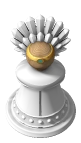
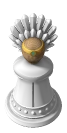
Mexica: slimmer matte Pilli Mexica, wider bridges they stand on between the rails
The Pilli Mexica was wider than the bridges and glossier than everything round it. The figure
keeps its height, so it still shows behind a temple, but is slimmed to 1.05 across; its paint
is matte, toned a quarter of the way towards the island's earth, and its gold dulled. Bridges
widen to 0.31 of a cell each side, so a figure fits between the curbs. On a bridge a figure
stands centred, and on one running across the screen the near curb, rail and posts are drawn
over it.

diff --git a/games/mexica-ui/src/lib/board/lookOutlines.ts b/games/mexica-ui/src/lib/board/lookOutlines.ts
@@ -1,6 +1,6 @@
 // Written by scripts/render-looks.mjs: each figure's outline, by the name of its look.
 export const LOOK_OUTLINES: Record<string, string> = {
-    pilli: 'M-0.09 -32.46L-0.54 -32.24L-1.59 -31.29L-1.48 -30.96L-1.48 -30.07L-1.37 -29.96L-1.37 -29.18L-1.26 -29.07L-1.31 -28.68L-1.59 -28.74L-1.7 -29.07L-1.81 -30.29L-2.09 -31.24L-3.54 -31.9L-3.98 -31.79L-4.48 -31.29L-4.92 -30.4L-4.92 -29.96L-3.87 -27.46L-4.04 -27.52L-5.15 -29.74L-5.42 -30.02L-6.2 -30.24L-7.09 -30.24L-7.48 -29.85L-7.7 -28.18L-6.09 -26.02L-7.15 -27.18L-7.98 -27.9L-8.09 -27.79L-8.98 -27.79L-9.31 -27.68L-9.59 -27.4L-9.59 -26.74L-9.04 -25.52L-9.04 -25.29L-7.81 -24.29L-8.09 -24.35L-8.76 -24.79L-9.09 -24.79L-10.04 -24.29L-10.15 -24.07L-10.04 -23.74L-8.2 -22.02L-7.26 -21.63L-7.54 -21.57L-7.87 -21.68L-8.09 -21.46L-8.54 -21.35L-8.81 -21.07L-8.7 -20.85L-7.65 -20.24L-6.76 -20.02L-6.09 -19.46L-5.76 -19.35L-5.76 -19.24L-5.98 -19.24L-6.37 -18.96L-5.98 -18.68L-4.87 -18.57L-4.7 -18.18L-4.7 -17.74L-5.65 -17.35L-6.31 -16.9L-7.48 -15.74L-8.04 -14.85L-8.26 -14.18L-8.26 -13.74L-8.37 -13.63L-8.26 -12.63L-8.15 -12.52L-8.15 -11.63L-7.7 -10.63L-7.04 -9.85L-6.48 -9.4L-6.48 -9.18L-6.81 -8.18L-8.42 -7.13L-9.7 -5.85L-10.92 -3.96L-11.48 -2.74L-11.7 -1.96L-11.7 -1.52L-11.81 -1.4L-11.81 0.6L-11.7 0.71L-11.7 1.15L-11.37 2.26L-10.37 4.04L-8.98 5.54L-7.31 6.76L-5.2 7.76L-3.31 8.32L-2.2 8.43L-2.09 8.54L-1.2 8.54L-1.09 8.65L1.02 8.65L1.13 8.54L2.8 8.43L2.91 8.32L3.35 8.32L4.91 7.87L7.13 6.87L8.58 5.87L10.19 4.26L10.74 3.48L11.41 2.15L11.63 1.48L11.63 1.04L11.74 0.93L11.74 0.37L11.85 0.26L11.85 -1.07L11.74 -1.18L11.74 -1.74L11.63 -1.85L11.52 -2.63L10.41 -4.85L9.52 -6.07L8.69 -6.9L6.74 -8.29L6.74 -8.63L6.52 -9.07L6.52 -9.4L7.85 -10.85L8.19 -11.74L8.3 -14.07L8.08 -14.74L7.3 -15.96L6.46 -16.79L6.02 -17.13L4.63 -17.74L4.8 -18.57L5.46 -18.57L6.3 -18.85L6.24 -19.13L5.74 -19.29L5.91 -19.46L6.24 -19.57L6.8 -20.02L7.69 -20.24L8.35 -20.57L8.74 -20.96L8.74 -21.18L8.58 -21.35L8.35 -21.35L7.91 -21.68L7.58 -21.57L7.3 -21.63L8.02 -21.9L9.02 -22.68L9.96 -23.63L10.08 -24.29L9.69 -24.57L9.24 -24.68L9.02 -24.9L7.91 -24.24L7.63 -24.18L8.96 -25.18L9.52 -26.52L9.63 -27.29L9.52 -27.52L9.24 -27.68L8.13 -27.79L8.02 -27.9L6.35 -26.35L6.3 -26.4L6.74 -26.85L7.74 -28.29L7.63 -28.4L7.52 -29.74L7.13 -30.24L6.24 -30.24L6.13 -30.13L5.35 -30.02L4.19 -27.74L3.91 -27.46L3.96 -27.85L4.3 -28.4L4.96 -30.29L4.41 -31.4L3.8 -31.9L3.13 -31.79L1.96 -31.07L1.85 -29.96L1.63 -29.29L1.63 -28.74L1.35 -28.68L1.3 -29.4L1.41 -29.52L1.41 -30.29L1.52 -30.4L1.52 -31.29L0.69 -32.13L0.13 -32.46ZM5.85 -25.85L5.96 -25.85ZM-7.7 -24.18L-7.59 -24.18ZM-7.15 -21.52L-7.04 -21.52ZM-7.37 -6.96L-7.26 -6.96Z',
+    pilli: 'M-0.25 -31.23L-1.3 -30.18L-1.19 -29.96L-1.19 -29.07L-1.08 -28.96L-1.08 -27.96L-0.97 -27.84L-1.25 -27.68L-1.64 -30.07L-2.8 -30.79L-3.14 -30.79L-3.52 -30.4L-3.86 -29.51L-4.08 -29.29L-3.64 -28.29L-3.41 -27.4L-3.19 -27.07L-3.14 -26.57L-3.64 -27.4L-3.64 -27.62L-4.36 -29.12L-5.8 -29.23L-5.97 -29.07L-6.08 -28.84L-6.08 -28.29L-6.19 -28.18L-6.19 -27.29L-4.69 -25.01L-6.36 -27.01L-7.36 -26.9L-7.75 -26.62L-7.75 -25.96L-7.3 -24.62L-5.64 -23.18L-7.25 -24.23L-7.47 -24.01L-7.91 -23.9L-8.19 -23.62L-7.97 -22.96L-6.47 -21.46L-5.52 -21.07L-5.69 -21.01L-6.36 -21.23L-6.58 -21.01L-6.8 -21.01L-7.08 -20.62L-6.91 -20.34L-6.58 -20.12L-5.91 -19.79L-5.36 -19.68L-4.91 -19.23L-4.58 -19.12L-4.52 -19.07L-4.91 -18.9L-5.08 -18.62L-4.8 -18.46L-3.91 -18.34L-3.52 -17.18L-5.02 -16.46L-5.97 -15.51L-6.64 -14.29L-6.64 -13.96L-6.75 -13.84L-6.64 -11.84L-6.19 -10.84L-5.08 -9.84L-5.19 -9.73L-5.19 -9.18L-5.86 -6.84L-6.14 -6.46L-6.69 -6.12L-7.97 -4.84L-8.97 -3.07L-9.52 -1.29L-9.52 0.6L-9.08 2.04L-8.41 3.16L-7.02 4.66L-5.91 5.43L-4.58 6.1L-2.91 6.66L-1.91 6.77L-1.8 6.88L-0.8 6.88L-0.69 6.99L0.64 6.99L0.75 6.88L2.42 6.77L4.31 6.21L5.53 5.66L6.86 4.77L8.25 3.38L9.25 1.6L9.48 0.82L9.48 0.27L9.59 0.16L9.59 -0.84L9.48 -0.96L9.48 -1.62L9.14 -2.62L8.48 -4.07L7.59 -5.29L5.92 -6.73L5.59 -7.51L5.36 -8.84L5.14 -9.4L5.14 -9.84L5.92 -10.51L6.25 -10.96L6.59 -11.73L6.59 -12.62L6.7 -12.73L6.7 -14.07L6.59 -14.4L6.14 -15.29L5.31 -16.23L4.86 -16.57L3.48 -17.18L3.7 -17.51L3.86 -18.34L4.86 -18.46L5.14 -18.62L4.98 -18.9L4.75 -18.9L4.48 -19.07L4.53 -19.12L5.09 -19.34L5.42 -19.68L6.42 -20.01L7.03 -20.51L7.03 -20.84L6.31 -21.23L5.75 -21.01L5.59 -21.07L6.64 -21.57L7.31 -22.23L8.03 -23.07L8.14 -23.62L7.31 -24.23L5.81 -23.29L7.25 -24.62L7.7 -25.73L7.7 -26.62L7.42 -26.9L6.42 -27.01L4.53 -24.79L6.25 -27.4L6.14 -27.51L6.14 -28.62L6.03 -28.96L5.75 -29.23L4.42 -29.12L4.03 -28.51L4.03 -28.29L3.2 -26.57L3.14 -26.96L3.36 -27.29L3.48 -27.84L4.03 -29.18L3.59 -30.29L3.09 -30.79L2.75 -30.79L1.59 -30.07L1.48 -28.73L1.36 -28.62L1.36 -28.07L1.2 -27.68L1.03 -27.84L1.03 -28.4L1.14 -28.51L1.25 -30.18L0.42 -31.12ZM-4.52 -24.73L-4.3 -24.62ZM4.25 -24.51L4.36 -24.51ZM5.59 -23.18L5.7 -23.18L5.53 -23.01ZM-5.41 -20.96L-5.3 -20.96Z',
     'pilli-flat':
-        'M-1.42 -11.79L-1.54 -11.68L-2.09 -11.68L-2.2 -11.57L-3.09 -11.46L-3.54 -11.24L-3.87 -11.24L-5.42 -10.57L-7.31 -9.35L-8.31 -8.46L-9.37 -7.29L-10.26 -5.96L-11.04 -4.41L-11.48 -3.07L-11.59 -2.18L-11.7 -2.07L-11.7 -1.41L-11.81 -1.29L-11.81 1.26L-11.7 1.37L-11.7 2.04L-11.59 2.15L-11.48 3.04L-10.48 5.59L-9.04 7.71L-7.2 9.43L-5.42 10.54L-4.54 10.98L-3.2 11.43L-2.42 11.54L-2.31 11.65L-1.76 11.65L-1.65 11.76L-0.65 11.76L-0.54 11.87L1.69 11.76L1.8 11.65L2.35 11.65L4.24 11.09L6.24 10.09L8.13 8.65L9.63 6.93L10.85 4.82L11.52 2.93L11.52 2.48L11.74 1.82L11.74 0.93L11.85 0.82L11.74 -1.85L11.63 -1.96L11.63 -2.41L11.08 -4.29L10.08 -6.29L9.19 -7.52L7.02 -9.57L6.02 -10.24L4.69 -10.91L3.13 -11.46L2.24 -11.57L2.13 -11.68L1.58 -11.68L1.46 -11.79ZM-8.37 -5.96L-8.26 -5.96ZM-5.15 -3.96L-5.04 -3.96Z'
+        'M-1.25 -9.53L-1.36 -9.42L-2.36 -9.31L-3.69 -8.86L-4.8 -8.31L-6.47 -7.09L-7.64 -5.81L-8.3 -4.81L-9.19 -2.81L-9.19 -2.47L-9.41 -1.92L-9.41 -1.36L-9.52 -1.25L-9.52 1.3L-9.41 1.41L-9.3 2.41L-8.97 3.41L-8.08 5.19L-7.41 6.08L-5.58 7.8L-3.58 8.91L-2.14 9.36L-0.91 9.47L-0.8 9.58L1.64 9.47L2.64 9.14L2.98 9.14L5.09 8.14L6.42 7.14L7.92 5.41L8.7 4.08L9.36 2.08L9.48 0.75L9.59 0.64L9.48 -1.59L9.36 -1.7L9.36 -2.14L9.03 -3.25L8.03 -5.25L7.36 -6.14L5.64 -7.75L4.42 -8.53L2.75 -9.2L2.42 -9.2L1.86 -9.42L1.31 -9.42L1.2 -9.53ZM2.36 -6.25L2.48 -6.25ZM4.81 -5.7L4.92 -5.7ZM6.59 -4.81L6.7 -4.81Z'
 }

diff --git a/games/mexica-ui/src/lib/board/pilliLight.ts b/games/mexica-ui/src/lib/board/pilliLight.ts
@@ -21,7 +21,7 @@ import {
     type Vec
 } from './light.js'
 import { PILLI_PIXELS, pilliBounds } from './pilliShape.js'
-import { PILLI_SIZE } from './view.js'
+import { PILLI_SIZE, PILLI_WIDTH } from './view.js'
 import {
     castRays,
     normalAt,
@@ -60,12 +60,15 @@ type Figure = { scene: Scene; finish: (p: Vec) => Finish }
 // The figure's light over its paint, a second layer of light for dark paint, and its outline.
 export type PilliLook = { bitmap: Bitmap; shine: Bitmap; outline: string }
 
+// From the board's units back to the figure as drawn, slimmed to PILLI_WIDTH across.
+const unscaled = (p: Vec): Vec => [p[0] / PILLI_WIDTH, p[1] / PILLI_WIDTH, p[2] / PILLI_SIZE]
+
 export function renderPilli(tilt: number, pixels = PILLI_PIXELS): PilliLook {
     const box = pilliBounds(tilt)
     const full = FIGURE
     const figure: Figure = {
-        scene: (p) => full.scene(scale(p, 1 / PILLI_SIZE)) * PILLI_SIZE,
-        finish: (p) => full.finish(scale(p, 1 / PILLI_SIZE))
+        scene: (p) => full.scene(unscaled(p)) * Math.min(PILLI_WIDTH, PILLI_SIZE),
+        finish: (p) => full.finish(unscaled(p))
     }
     const toward: Vec = [0, Math.sqrt(1 - tilt * tilt), tilt]
     const { bitmaps, hits } = castRays(
@@ -106,7 +109,7 @@ function bend(p: Vec, scene: Scene): number {
     return sum / (e * e)
 }
 
-// `below` is the paving reflected in the satin paint, which shows on dark paint only.
+// `below` is the paving in the paint's faint sheen, which shows on dark paint only.
 function shineOf(p: Vec, normal: Vec, scene: Scene, tone: number, below: number): Sample {
     const edge = smoothstep(DRY_BRUSH.from, DRY_BRUSH.to, bend(p, scene))
     const up = 0.5 + 0.5 * clamp(normal[2])
@@ -118,14 +121,16 @@ function shineOf(p: Vec, normal: Vec, scene: Scene, tone: number, below: number)
 }
 
 // Lit as ZÈRTZ lights its pieces: a key light from above, to the left and a little in front,
-// so the side towards the viewer shows its form; little light besides; the edges turned from
-// the viewer reflecting the room above, as satin paint does. The paving below shows in it too,
-// but only on dark paint, where it gives the foot its edge; it clouded lighter paint.
+// so the side towards the viewer shows its form; little light besides. The paint is matte, as
+// the stone round it is: the edges turned from the viewer keep only a faint sheen of the room
+// above, and of the paving below on dark paint, where it gives the foot its edge. The gold is
+// dulled to match.
 const KEY: Vec = normalize([-0.62, 0.24, 0.75])
 const AMBIENT = 0.22
-const ROOM = 0.32
-const PAVING = 0.5
+const ROOM = 0.064
+const PAVING = 0.1
 const SATIN = 0.45
+const GOLD_SHINE = 0.16
 
 function fresnel(cosine: number): number {
     return 0.04 + 0.96 * (1 - clamp(cosine)) ** 5
@@ -149,7 +154,7 @@ function shade(p: Vec, figure: Figure, toward: Vec): Sample[] {
         const half = normalize(add(KEY, toward))
         const facing = clamp(dot(normal, half))
         const metal = mix(GOLD.dark, GOLD.light, clamp(sun * 0.7 + facing ** 4 * 0.5))
-        const shine = 0.8 * facing ** 24
+        const shine = GOLD_SHINE * facing ** 24
         return opaque(add(scale(metal, 0.3 + 0.8 * light), [shine, shine * 0.9, shine * 0.6]))
     }
     if (finish.kind === 'turquoise') {
@@ -158,7 +163,7 @@ function shade(p: Vec, figure: Figure, toward: Vec): Sample[] {
         const stone = mix(TURQUOISE.dark, TURQUOISE.light, 0.5 + 0.5 * sun)
         return opaque(add(scale(stone, 0.35 + 0.75 * light), [polish, polish, polish]))
     }
-    // As a factor on the paint's sRGB colour; more than full light, and the satin's
+    // As a factor on the paint's sRGB colour; more than full light, and the sheen's
     // reflections, lighten it.
     const factor = ((light / FULL_LIGHT) * finish.tone) ** (1 / 2.2)
     const white = clamp(Math.max(0, factor - 1) * 0.6 + srgb(glance * SATIN))

diff --git a/games/mexica-ui/src/lib/components/Board.svelte b/games/mexica-ui/src/lib/components/Board.svelte
@@ -47,6 +47,7 @@
         | { kind: 'temple'; cell: Cell; level: Level; playerId?: string }
         | { kind: 'pilli'; cell: Cell; playerId: string; onBridge: boolean }
         | { kind: 'bridge'; cell: Cell; axis: Axis }
+        | { kind: 'bridgeFront'; cell: Cell }
 
     // Everything standing on the board, far rows first so nearer pieces stand in front.
     const raised: Raised[] = $derived.by(() => {
@@ -71,7 +72,14 @@
                     onBridge: layout.bridges.has(player.pilli ?? -1)
                 }))
         ]
-        const order = { bridge: 0, temple: 1, pilli: 2 }
+        // A bridge running across the screen has its near curb and rail drawn after any Pilli
+        // Mexica standing on it.
+        for (const bridge of game.bridges) {
+            if (view.screenAxis(bridge.axis) === Axis.EastWest) {
+                pieces.push({ kind: 'bridgeFront', cell: bridge.cell })
+            }
+        }
+        const order = { bridge: 0, temple: 1, pilli: 2, bridgeFront: 3 }
         return pieces.sort(
             (a, b) => view.centre(a.cell).y - view.centre(b.cell).y || order[a.kind] - order[b.kind]
         )
@@ -86,6 +94,9 @@
 
     const playerFill = (playerId?: string) =>
         playerId === undefined ? 'var(--mx-neutral)' : session.playerFill(playerId)
+    // A Pilli Mexica's paint, toned a quarter of the way towards the island's earth so the
+    // figures sit among the stone.
+    const pilliPaint = (fill: string) => `color-mix(in srgb, ${fill} 75%, #8c7f6a)`
 
     // What a tap on each cell would do now.
     const choosable: ReadonlySet<Cell> = $derived.by(() => {
@@ -313,8 +324,16 @@
                         fill="url(#mx-piece-shadow)"
                     ></ellipse>
                     <image
-                        href={LOOK_URLS[bridgeLook(axis, view.flat)]}
+                        href={LOOK_URLS[bridgeLook(axis, view.flat, across ? 'back' : 'whole')]}
                         {...bridgeBounds(axis, view.tilt)}
+                        preserveAspectRatio="none"
+                    ></image>
+                </g>
+            {:else if piece.kind === 'bridgeFront'}
+                <g transform="translate({centre.x} {centre.y})" class="piece">
+                    <image
+                        href={LOOK_URLS[bridgeLook(Axis.EastWest, view.flat, 'front')]}
+                        {...bridgeBounds(Axis.EastWest, view.tilt)}
                         preserveAspectRatio="none"
                     ></image>
                 </g>
@@ -343,19 +362,21 @@
                 {@const lift = piece.onBridge ? view.lift(BRIDGE_RISE) : 0}
                 {@const look = pilliLook(view.flat)}
                 <g
-                    transform="translate({centre.x} {centre.y + CELL * 0.1 * view.tilt - lift})"
+                    transform="translate({centre.x} {centre.y +
+                        (piece.onBridge ? 0 : CELL * 0.1 * view.tilt) -
+                        lift})"
                     class="piece"
                 >
                     <ellipse
                         cx="1"
                         cy="1"
-                        rx={CELL * 0.26}
-                        ry={CELL * 0.26 * view.tilt}
+                        rx={CELL * 0.22}
+                        ry={CELL * 0.22 * view.tilt}
                         fill="url(#mx-piece-shadow)"
                     ></ellipse>
                     <path
                         d={LOOK_OUTLINES[look]}
-                        fill={playerFill(piece.playerId)}
+                        fill={pilliPaint(playerFill(piece.playerId))}
                         fill-rule="evenodd"
                     ></path>
                     <image

diff --git a/games/mexica-ui/src/lib/board/bridgeLight.ts b/games/mexica-ui/src/lib/board/bridgeLight.ts
@@ -32,15 +32,25 @@ const PLANK = { pitch: 3.1, gap: 0.35 }
 const grain = fractal(noise2(151), 3)
 const streaks = noise2(157)
 
-export function renderBridge(screenAxis: Axis, tilt: number, pixels = BRIDGE_PIXELS): Bitmap {
+// The whole bridge, or for one running across the screen, its far layer (all but the near
+// curb, rail and posts, which its rays pass through) or its near one (those alone, where they
+// are the first thing a ray meets), so a Pilli Mexica can stand between them.
+export type BridgeLayer = 'whole' | 'back' | 'front'
+
+export function renderBridge(
+    screenAxis: Axis,
+    tilt: number,
+    layer: BridgeLayer = 'whole',
+    pixels = BRIDGE_PIXELS
+): Bitmap {
     const parts = bridgeParts()
     const local = (p: Vec): Vec =>
         screenAxis === Axis.EastWest ? [p[0], p[1], p[2]] : [p[1], p[0], p[2]]
-    const nearest = (p: Vec): { distance: number; part: Part } => {
+    const nearest = (p: Vec, among: readonly Part[]): { distance: number; part: Part } => {
         const [a, c, z] = local(p)
-        let part = parts[0]
+        let part = among[0]
         let distance = Infinity
-        for (const candidate of parts) {
+        for (const candidate of among) {
             const d = candidate.distance(a, c, z)
             if (d < distance) {
                 distance = d
@@ -49,11 +59,15 @@ export function renderBridge(screenAxis: Axis, tilt: number, pixels = BRIDGE_PIX
         }
         return { distance, part }
     }
-    const scene: Scene = (p) => nearest(p).distance
+    const back = parts.filter((part) => !part.front)
+    const scene: Scene = (p) => nearest(p, parts).distance
+    const marched: Scene = layer === 'back' ? (p) => nearest(p, back).distance : scene
     const box = bridgeBounds(screenAxis, tilt)
-    return castRays(box, tilt, pixels, scene, (p) => [
-        { color: shade(p, local(p), nearest(p).part, scene), alpha: 1 }
-    ]).bitmaps[0]
+    return castRays(box, tilt, pixels, marched, (p) => {
+        const part = nearest(p, layer === 'back' ? back : parts).part
+        const shown = layer !== 'front' || part.front === true
+        return [{ color: shade(p, local(p), part, scene), alpha: shown ? 1 : 0 }]
+    }).bitmaps[0]
 }
 
 function shade(p: Vec, [a, c, z]: Vec, part: Part, scene: Scene): Rgb {

diff --git a/games/mexica-ui/src/lib/board/lookUrls.ts b/games/mexica-ui/src/lib/board/lookUrls.ts
@@ -1,6 +1,8 @@
 // Written by scripts/render-looks.mjs: the file of every look, by name.
-import bridgeEw from '../images/looks/bridge-ew.webp'
-import bridgeEwFlat from '../images/looks/bridge-ew-flat.webp'
+import bridgeEwBack from '../images/looks/bridge-ew-back.webp'
+import bridgeEwBackFlat from '../images/looks/bridge-ew-back-flat.webp'
+import bridgeEwFront from '../images/looks/bridge-ew-front.webp'
+import bridgeEwFrontFlat from '../images/looks/bridge-ew-front-flat.webp'
 import bridgeNs from '../images/looks/bridge-ns.webp'
 import bridgeNsFlat from '../images/looks/bridge-ns-flat.webp'
 import canal from '../images/looks/canal.webp'
@@ -97,8 +99,10 @@ import temple4 from '../images/looks/temple-4.webp'
 import temple4Flat from '../images/looks/temple-4-flat.webp'
 
 export const LOOK_URLS: Record<string, string> = {
-    'bridge-ew': bridgeEw,
-    'bridge-ew-flat': bridgeEwFlat,
+    'bridge-ew-back': bridgeEwBack,
+    'bridge-ew-back-flat': bridgeEwBackFlat,
+    'bridge-ew-front': bridgeEwFront,
+    'bridge-ew-front-flat': bridgeEwFrontFlat,
     'bridge-ns': bridgeNs,
     'bridge-ns-flat': bridgeNsFlat,
     canal: canal,

diff --git a/games/mexica-ui/src/lib/board/pilliShape.ts b/games/mexica-ui/src/lib/board/pilliShape.ts
@@ -1,6 +1,6 @@
 import { linear } from './light.js'
 import { riseOf } from './templeShape.js'
-import { type Box, PILLI_SIZE } from './view.js'
+import { type Box, PILLI_SIZE, PILLI_WIDTH } from './view.js'
 
 // A Pilli Mexica as a painted wooden figure, feet at the origin: x to the right, y towards the
 // viewer, z up, in board units at full size: a noble in a robe flaring like a pawn's to a ring at
@@ -12,12 +12,12 @@ export const PILLI_SHINE = 0.3
 
 export const PILLI_PIXELS = 3
 
-// What the figure takes up at full size: half its width and depth, and its height.
+// What the figure takes up as drawn: half its width and depth, and its height.
 const EXTENT = { half: 9.6, depth: 9.5, height: 31.5 }
 
 export function pilliBounds(tilt: number): Box {
-    const half = EXTENT.half * PILLI_SIZE
-    const depth = EXTENT.depth * PILLI_SIZE
+    const half = EXTENT.half * PILLI_WIDTH
+    const depth = EXTENT.depth * PILLI_WIDTH
     const height = EXTENT.height * PILLI_SIZE
     const margin = 1
     const top = -depth * tilt - height * riseOf(tilt)

diff --git a/games/mexica-ui/src/lib/board/bridgeShape.ts b/games/mexica-ui/src/lib/board/bridgeShape.ts
@@ -9,7 +9,7 @@ import { BRIDGE_RISE, CELL, type Box } from './view.js'
 
 export const BRIDGE = {
     reach: 0.62 * CELL,
-    half: 0.24 * CELL,
+    half: 0.31 * CELL,
     deck: BRIDGE_RISE * CELL
 }
 
@@ -22,6 +22,9 @@ export type Part = {
     bounds: { a0: number; a1: number; c0: number; c1: number; z0: number; z1: number }
     material: Material
     grain: 'along' | 'across'
+    // On the bridge's near side when it runs across the screen: drawn over a Pilli Mexica
+    // standing on it.
+    front?: boolean
 }
 
 function box(
@@ -144,7 +147,8 @@ export function bridgeParts(): Part[] {
         )
     )
     const plankDeck = slab(reach, -half, half, top, thick, 'deck', 'across')
-    return [plankDeck, ...stringers, ...curbs, ...posts, ...rails]
+    const near = (part: Part): Part => ({ ...part, front: part.bounds.c0 > 0 })
+    return [plankDeck, ...stringers, ...[...curbs, ...posts, ...rails].map(near)]
 }
 
 // Where the bridge lies in the board's x (right) and y (towards the viewer) when its span runs

diff --git a/games/mexica-ui/src/routes/looks/+page.svelte b/games/mexica-ui/src/routes/looks/+page.svelte
@@ -127,9 +127,17 @@
                 drawn[templeLook(level, tilt === FLAT)] = toUrl(renderTemple(level, tilt), 0.9)
             }
         }
-        for (const axis of [Axis.EastWest, Axis.NorthSouth]) {
-            for (const tilt of [TILT, FLAT]) {
-                drawn[bridgeLook(axis, tilt === FLAT)] = toUrl(renderBridge(axis, tilt), 0.9)
+        for (const tilt of [TILT, FLAT]) {
+            const flat = tilt === FLAT
+            drawn[bridgeLook(Axis.NorthSouth, flat)] = toUrl(
+                renderBridge(Axis.NorthSouth, tilt),
+                0.9
+            )
+            for (const layer of ['back', 'front'] as const) {
+                drawn[bridgeLook(Axis.EastWest, flat, layer)] = toUrl(
+                    renderBridge(Axis.EastWest, tilt, layer),
+                    0.9
+                )
             }
         }
         const traced: Record<string, string> = {}

diff --git a/games/mexica-ui/src/lib/board/view.ts b/games/mexica-ui/src/lib/board/view.ts
@@ -9,9 +9,12 @@ export const TIER_HEIGHT = 0.26
 export const BRIDGE_RISE = 0.16
 // A Pilli Mexica's height and how far its headdress reaches back, as shares of a cell, at its
 // drawn size.
+// A Pilli Mexica's height, and its width and depth, as multiples of the figure as drawn: tall
+// enough to show behind a temple, slim enough to stand between a bridge's curbs.
 export const PILLI_SIZE = 1.3
+export const PILLI_WIDTH = 1.05
 export const PILLI_HEIGHT = 0.8 * PILLI_SIZE
-export const PILLI_DEPTH = 0.24 * PILLI_SIZE
+export const PILLI_DEPTH = 0.24 * PILLI_WIDTH
 
 const LABEL_SIZE = 12
 const LABEL_GAP = 8

diff --git a/games/mexica-ui/src/lib/board/looks.ts b/games/mexica-ui/src/lib/board/looks.ts
@@ -3,8 +3,8 @@ export const LAKE_LOOK = 'lake'
 export const CANAL_LOOK = 'canal'
 export const SHORE_LOOK = 'shore'
 
-export function bridgeLook(screenAxis: string, flat: boolean): string {
-    return `bridge-${screenAxis}${flat ? '-flat' : ''}`
+export function bridgeLook(screenAxis: string, flat: boolean, layer = 'whole'): string {
+    return `bridge-${screenAxis}${layer === 'whole' ? '' : `-${layer}`}${flat ? '-flat' : ''}`
 }
 
 export function templeLook(level: number, flat: boolean): string {
